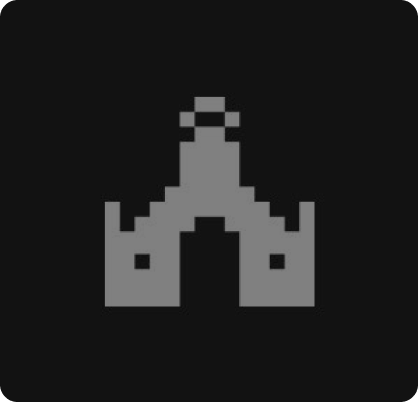
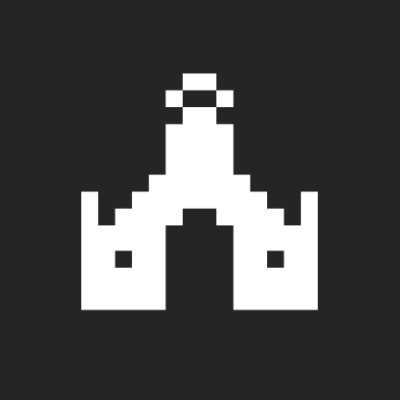
guild.xyz not coming soon

diff --git a/packages/web/src/App.js b/packages/web/src/App.js
@@ -1,10 +1,11 @@
 import "./App.css";
-import {  useEffect } from "react";
+import { useEffect } from "react";
 import { Route, Routes } from "react-router-dom";
 import { useScreenFixedProvider } from "./Components/context/ScreenFixedProvider";
 import BackToTopButton from "../src/Components/Common/BackToTopButton";
 import Home from "./views/Home";
 import Faq from "./views/Faq";
+
 function App() {
   const { showOverlay } = useScreenFixedProvider();
   useEffect(() => {
@@ -13,11 +14,7 @@ function App() {
     } else {
       document.body.classList.add("font_root");
     }
-  }, 
-  [showOverlay]);
-  useEffect(() => {
-  }, []);
- 
+  }, [showOverlay]);
   return (
     <>
       <Routes>

diff --git a/packages/web/src/Components/Driven.jsx b/packages/web/src/Components/Driven.jsx
@@ -61,7 +61,7 @@ const Driven = () => {
                                 src={obj.img}
                                 alt="driven3"
                               />
-                              {i === 2 || i === 3 || i === 4 ? (
+                              {i === 3 || i === 4 ? (
                                 <button className="position-absolute start-50 top-50 translate-middle driven_btn border-0 text-decoration-none text-black fw_middium font_xxxs">
                                   coming soon
                                 </button>

diff --git a/packages/web/src/Components/Common/Helper.jsx b/packages/web/src/Components/Common/Helper.jsx
@@ -217,16 +217,16 @@ export const EcosystemData = [
     link: "https://lilnouns.wtf",
   },
   {
-    img: driven3,
-    heading: "Gnars DAO",
-    text: "Visit",
-    link: "https://gnars.wtf",
-  },
-  {
     img: driven4,
     heading: "Guild.xyz",
     text: "Visit",
     link: "https://guild.xyz",
+  },
+  {
+    img: driven3,
+    heading: "Gnars DAO",
+    text: "Visit",
+    link: "https://gnars.wtf",
   },
   {
     img: driven5,
